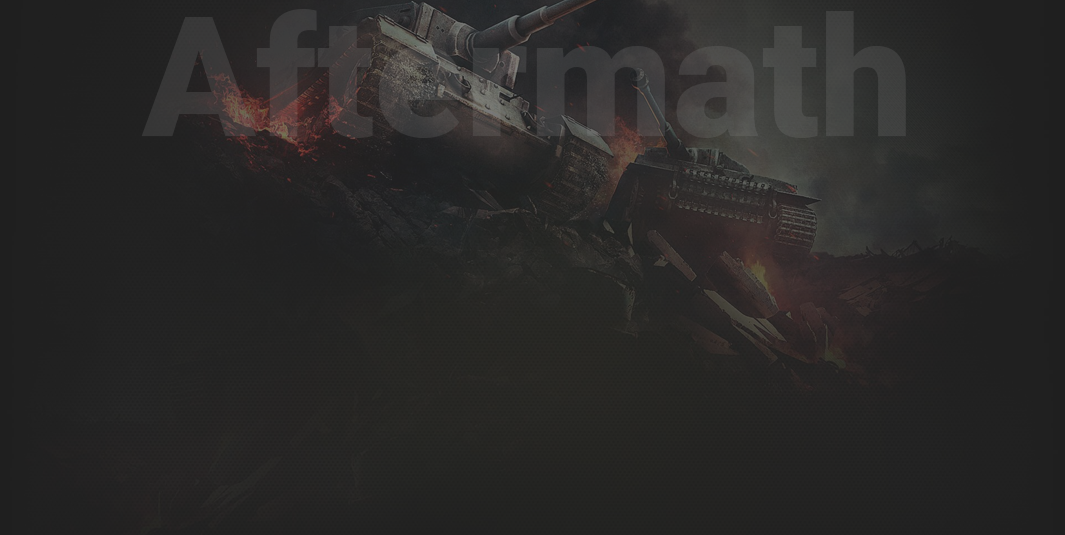
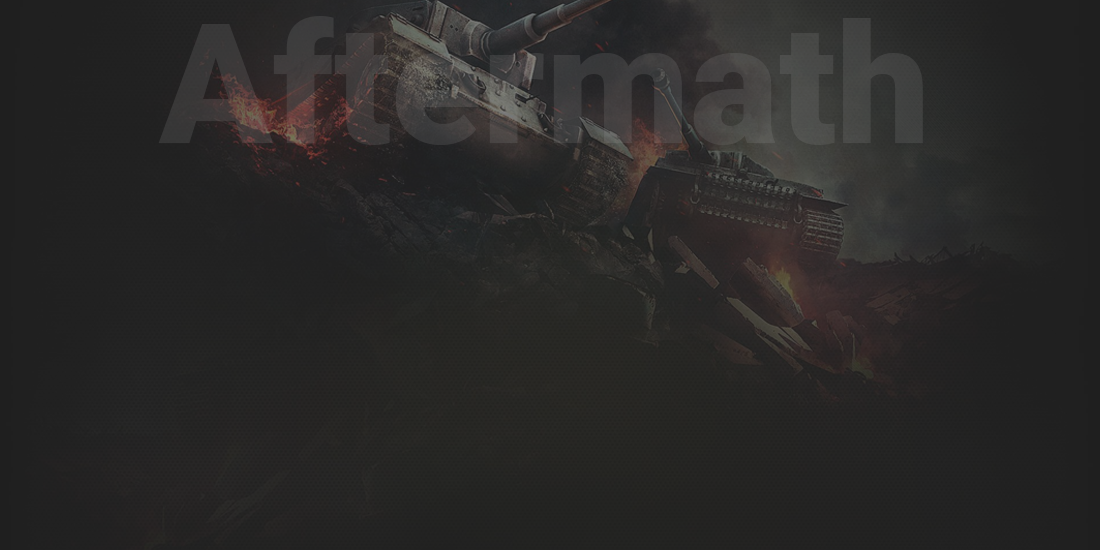
Adjusted graphics and auto rendering

Changed region(s): [[0.3408, 0.0, 0.5577, 0.2093], [0.2169, 0.1794, 0.3408, 0.2991], [0.4648, 0.0897, 0.4958, 0.1196]]

diff --git a/cogs/replays/render.py b/cogs/replays/render.py
@@ -27,11 +27,13 @@ class Render():
             'players').get(str(self.protagonist_id)).get('nickname')
         self.protagonist_team = self.replay_data.get(
             'players').get(str(self.protagonist_id)).get('team')
+        self.battle_result_num = self.replay_data.get(
+            'battle_summary').get('battle_result')
 
         self.battle_result = 'Defeat'
-        if self.replay_data.get('battle_summary').get('battle_result') == 1:
+        if self.battle_result_num == 1:
             self.battle_result = 'Victory'
-        if self.replay_data.get('battle_summary').get('battle_result') == 2:
+        if self.battle_result_num == 2:
             self.battle_result = 'Draw'
 
         self.all_names_render = []
@@ -148,46 +150,120 @@ class Render():
         self.pr_battle_pen = self.pr_performance.get(
             'shots_pen')
 
-    def image(self):
-        self.image = Image.open('./cogs/replays/render/frame.png')
-        self.platoon_image = Image.open('./cogs/replays/render/platoon.png')
+    def image(self, bg=1, brand=1, darken=1, mapname=1):
+        """
+        bg - Draw background image \n
+        brand - Draw branding \n
+        darken - Draw dark bg overlay \n
+        mapname - Draw map name and result \n
+        """
+        frame_w = 1100
+        frame_h = 550
+
+        frame = Image.new('RGBA', (frame_w, frame_h), (0, 0, 0, 0))
+        self.image = frame
         self.draw_frame = ImageDraw.Draw(self.image)
+        self.platoon_image = Image.open('./cogs/replays/render/platoon.png')
 
         self.font_size = 16
-        self.font = ImageFont.truetype(
-            "./cogs/replays/render/font.ttf", self.font_size)
-        self.font_title = ImageFont.truetype(
-            "./cogs/replays/render/font.ttf", (self.font_size * 3))
-        self.font_fat = ImageFont.truetype(
-            "./cogs/replays/render/font_fat.ttf", (round(self.font_size * 1.25)))
-        self.font_slim = ImageFont.truetype(
-            "./cogs/replays/render/font_slim.ttf", self.font_size)
-        self.font_slim_title = ImageFont.truetype(
-            "./cogs/replays/render/font_slim.ttf", (self.font_size * 3))
-        self.font_platoon = ImageFont.truetype(
-            "./cogs/replays/render/font_slim.ttf", 12)
-        self.team_rating_font = ImageFont.truetype(
-            "./cogs/replays/render/font.ttf", 18)
+
+        self.image_w, self.image_h = frame.size
+        # Will bhe devided by 2
+        self.platoon_icon_margin = 28
+        # Height of each player card
+        self.image_step = 54
+        # Margin from frame border
+        self.image_min_h = 150
+
+        self.text_margin_w = self.font_size
+        self.text_margin_h = 5
 
         self.font_color_base = (255, 255, 255)
         self.font_color_nickname = (255, 255, 255)
-        self.font_color_nickname_dead = (120, 120, 120)
+        self.font_color_nickname_dead = (180, 180, 180)
         self.font_color_clan = (150, 150, 150)
         self.font_color_pr = (255, 165, 0)
         self.font_color_pr_dead = (204, 132, 0)
         self.font_color_win = (95, 227, 66)
         self.font_color_loss = (242, 94, 61)
 
-        self.image_w, self.image_h = self.image.size
-        # Will bhe devided by 2
-        self.platoon_icon_margin = 28
-        # Margin from frame border
-        self.image_min_h = 150
-        # Height of each player card
-        self.image_step = 54
+        self.player_card_color = (80, 80, 80, 128)
 
-        self.text_margin_w = 10
-        self.text_margin_h = 5
+        if bg == 1:
+            bg_image = Image.open(
+                './cogs/replays/render/bg_frame.png')
+            bg_image_w, bg_image_h = bg_image.size
+            bg_image_ratio = frame_w / bg_image_w
+            bg_image = bg_image.resize(
+                (int(bg_image_w * bg_image_ratio), int(bg_image_h * bg_image_ratio)))
+            frame.paste(bg_image, box=(
+                0, 0))
+
+        if mapname == 0:
+            self.image_min_h = self.image_step
+
+        if brand == 1:
+            branding_w = int((frame_w - frame_w) / 2)
+            branding_h = int((frame_h - frame_h) / 2)
+            overlay_brand_am = Image.open(
+                './cogs/replays/render/aftermath_frame.png')
+            frame.paste(overlay_brand_am, box=(
+                branding_w, branding_h), mask=overlay_brand_am.split()[3])
+
+        if darken == 1:
+            overlay_dark = Image.new(
+                'RGBA', (frame_w, frame_h), (0, 0, 0, 128))
+            frame.paste(overlay_dark, box=(
+                0, 0), mask=overlay_dark.split()[3])
+
+        if mapname == 1:
+            # Draw battle result
+            if self.battle_result_num == 0:
+                result_font_color = self.font_color_loss
+            if self.battle_result_num == 1:
+                result_font_color = self.font_color_win
+            if self.battle_result_num == 2:
+                result_font_color = self.font_color_base
+
+            map_font_size = round(self.image_min_h - (self.image_step / 2))
+            result_font_size = round(self.image_min_h / 2)
+            map_font_color = (100, 100, 100, 255)
+            font_title = ImageFont.truetype(
+                "./cogs/replays/render/font.ttf", (map_font_size))
+            font_result = ImageFont.truetype(
+                "./cogs/replays/render/font.ttf", (result_font_size))
+            map_name_str = f'{self.map_name}'
+            battle_result_str = f'{self.battle_result}'
+            text_w, text_h = self.draw_frame.textsize(
+                map_name_str, font=font_title)
+            result_text_w, result_text_h = self.draw_frame.textsize(
+                battle_result_str, font=font_result)
+
+            map_name_draw_w = round((self.image_w - text_w) / 2)
+            map_name_draw_h = round(
+                (self.image_min_h - (self.image_step / 3) - text_h) / 2)
+
+            battle_result_draw_w = round((self.image_w - result_text_w) / 2)
+            battle_result_draw_h = round(
+                ((self.image_min_h) - result_text_h) / 8)
+
+            self.draw_frame.text((map_name_draw_w, map_name_draw_h), map_name_str,
+                                 fill=map_font_color, font=font_title)
+            self.draw_frame.text((battle_result_draw_w, battle_result_draw_h), battle_result_str,
+                                 fill=result_font_color, font=font_result)
+
+        self.font = ImageFont.truetype(
+            "./cogs/replays/render/font.ttf", self.font_size)
+        self.font_fat = ImageFont.truetype(
+            "./cogs/replays/render/font_fat.ttf", (round(self.font_size * 1.25)))
+        self.font_slim = ImageFont.truetype(
+            "./cogs/replays/render/font_slim.ttf", self.font_size)
+        # self.font_slim_title = ImageFont.truetype(
+        #     "./cogs/replays/render/font_slim.ttf", (self.font_size * 3))
+        self.font_platoon = ImageFont.truetype(
+            "./cogs/replays/render/font_slim.ttf", 12)
+        self.team_rating_font = ImageFont.truetype(
+            "./cogs/replays/render/font.ttf", 18)
 
         # Width of each player card
         longest_name, _ = self.draw_frame.textsize(
@@ -238,17 +314,13 @@ class Render():
             self.draw_ui_self(team_rating, team_offset_w)
             step = 0
 
-        # Draw battle result
-        battle_result_str = f'{self.map_name} - {self.battle_result}'
-        text_w, text_h = self.draw_frame.textsize(
-            battle_result_str, font=self.font_slim_title)
+        # if mode == 4:
+        #     lower = round((self.image_min_h) +
+        #                   ((int(len(all_players) / 2) + 1) * self.image_step))
+        #     left = upper = 0
+        #     right = left + self.image_w
 
-        result_draw_w = round((self.image_w - text_w) / 2)
-        result_draw_h = round(
-            (self.image_min_h - self.image_step - text_h) / 2)
-
-        self.draw_frame.text((result_draw_w, result_draw_h), battle_result_str,
-                             self.font_color_base, font=self.font_slim_title)
+        #     self.image = self.image.crop((0, 0, 0, lower))
 
         final_buffer = BytesIO()
         self.image.save(final_buffer, 'png')
@@ -262,28 +334,27 @@ class Render():
         self.player_card_w
         self.text_margin_w
 
+        card_height = self.image_step - 10
+
         team_card = Image.new(
-            'RGBA', (self.player_card_w, (self.image_step)), (51, 51, 51, 220))
+            'RGBA', (self.player_card_w, (card_height)), (51, 51, 51, 255))
         team_card_w, team_card_h = team_card.size
 
         icon_frame_w = icon_frame_h = round(
-            (self.image_step / 2) - self.text_margin_h)
+            (card_height * 2 / 3) - self.text_margin_h)
 
         player_list = Image.open(f'./cogs/replays/render/player_list.png')
         player_list = player_list.resize((icon_frame_w, icon_frame_h))
         player_list_w, player_list_h = player_list.size
 
         card_draw_w = team_offs
-        card_draw_h = self.image_min_h - self.image_step
+        card_draw_h = self.image_min_h - card_height
 
         player_list_draw_w = self.platoon_icon_margin
-        player_list_draw_h = round((team_card_h - player_list_h) / 2)
+        icons_draw_h = round((team_card_h - player_list_h) / 2)
 
         team_card.paste(player_list, box=(
-            player_list_draw_w, player_list_draw_h), mask=player_list.split()[3])
-
-        self.image.paste(team_card, box=(
-            card_draw_w, card_draw_h), mask=team_card.split()[3])
+            player_list_draw_w, icons_draw_h), mask=player_list.split()[3])
 
         last_stat_pos = 0
         for icon in self.stats_list:
@@ -294,13 +365,16 @@ class Render():
             max_width = self.global_stat_max_width.get(icon_name)
 
             draw_w = round(
-                ((self.player_card_w - self.text_margin_w - max_width - last_stat_pos) + ((max_width - icon_w) / 2))) + team_offs
-            draw_h = self.image_min_h + \
-                round(((self.image_step - icon_h) / 2) - self.image_step)
+                ((team_card_w - self.text_margin_w - max_width - last_stat_pos) + ((max_width - icon_w) / 2)))
+            # draw_w = round(team_card_w)
 
-            self.image.paste(icon, box=(
-                draw_w, draw_h), mask=icon.split()[3])
+            team_card.paste(icon, box=(
+                draw_w, icons_draw_h), mask=icon.split()[3])
             last_stat_pos += max_width + self.text_margin_w
+
+        self.image.paste(team_card, box=(
+            (card_draw_w), card_draw_h), mask=team_card.split()[3])
+
         return
 
     def draw_player_card(self, player):
@@ -323,14 +397,14 @@ class Render():
 
         # Draw name bg plates
         player_card = Image.new(
-            'RGBA', (self.player_card_w, (self.image_step - 10)), (128, 128, 128, 10))
+            'RGBA', (self.player_card_w, (self.image_step - 10)), self.player_card_color)
         player_card_w, player_card_h = player_card.size
 
         draw = ImageDraw.Draw(player_card)
 
         # Draw platoons
         if platoon:
-            platoon_font = self.font_slim
+            platoon_font = self.font_platoon
             platoon_font_color = self.font_color_base
             platoon_img = self.platoon_image.copy()
             draw_platoon = ImageDraw.Draw(platoon_img)
@@ -340,7 +414,7 @@ class Render():
             platoon_img_w, platoon_img_h = self.platoon_image.size
 
             draw_w = round((platoon_img_w - text_w) / 2)
-            draw_h = -1
+            draw_h = 0
             draw_platoon.text((draw_w, draw_h), platoon_str,
                               platoon_font_color, font=platoon_font)
 
@@ -351,9 +425,8 @@ class Render():
                 3], box=(platoon_w_pos, platoon_h_pos))
 
         # Render Tank, Player name, Clan
-        tank_font = self.font_slim
-
-        name_font = self.font
+        tank_font = self.font
+        name_font = self.font_slim
         font_color = self.font_color_base
         font_color_info = self.font_color_base
         font_color_name = self.font_color_base
@@ -468,8 +541,6 @@ class Render():
 
                 draw.rectangle([(rating_box_w1, rating_box_h1),
                                 (rating_box_w2, rating_box_h2)], fill=stat_color)
-                # draw.text((rating_line_w, rating_line_h), '|',
-                #           stat_color, font=stat_font)
 
             last_stat_pos += stat_max_width + self.text_margin_w
 

diff --git a/cogs/cmd_replays.py b/cogs/cmd_replays.py
@@ -50,7 +50,7 @@ class blitz_aftermath_replays(commands.Cog):
 
                 replay_data = Rating(replay_data).calculate_rating('mBRT1_0')
 
-                image_file = Render(replay_data, replay_id).image()
+                image_file = Render(replay_data, replay_id).image(brand=0)
                 await message.channel.send(f"```MD5: {replay_id}```", file=image_file)
 
                 # # Send message
